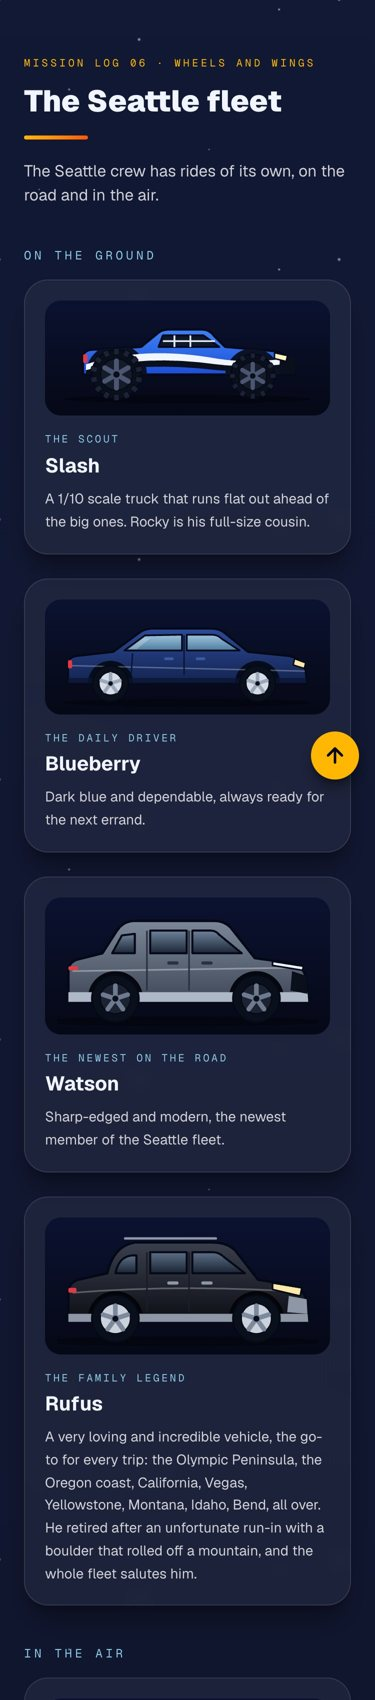
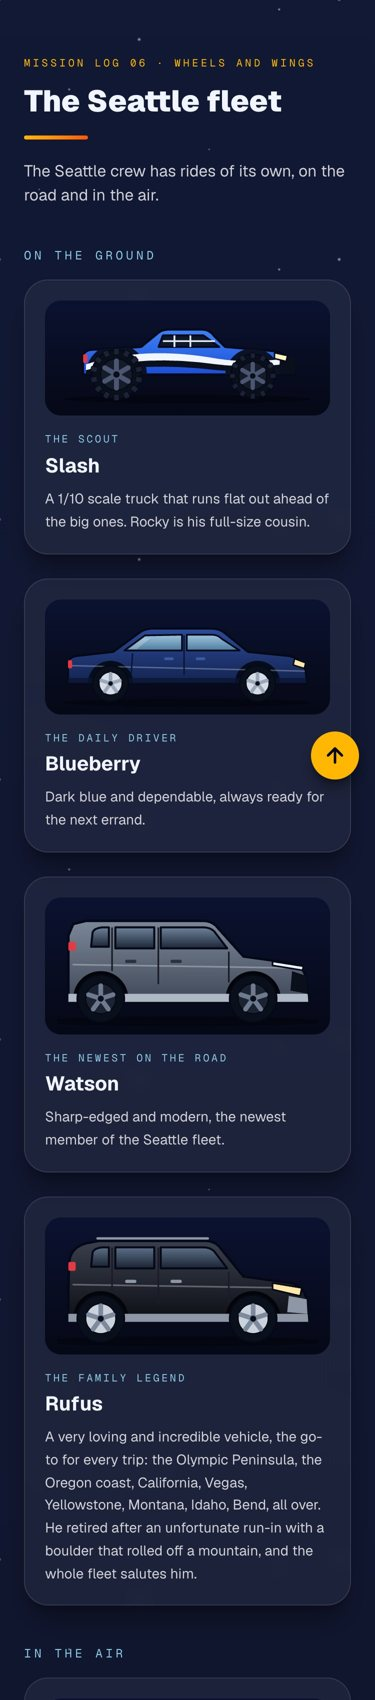
fix: Watson and Rufus get the long, tall back from the photos

Changed region(s): [[0.176, 0.7171, 0.7333, 0.8106], [0.176, 0.53, 0.7627, 0.5924]]

diff --git a/apps/web/src/components/fleet/Watson.tsx b/apps/web/src/components/fleet/Watson.tsx
@@ -1,9 +1,9 @@
 import Wheel from "./Wheel";
 
-// Watson, the 2025 Hyundai Tucson: a sharp-edged compact SUV in dark metallic gray, with a flat
-// roof, a tall tail, and a light bar across the front. An original drawing, no badges or plates.
+// Watson, the 2025 Hyundai Tucson: a sharp-edged compact SUV in dark metallic gray with a light bar across the front. An original drawing, no badges or plates. The back runs long and tall like the real one,
+// the roof carries almost to the tail, and the two doors sit mid-body with a small fixed rear pane.
 const BODY =
-  "M 70,150 L 70,112 Q 70,102 80,98 L 112,90 L 130,62 Q 138,50 152,50 L 250,50 Q 262,50 270,58 L 300,96 L 344,102 Q 362,106 364,124 L 366,150 Z";
+  "M 70,150 L 70,112 L 70,68 L 76,54 L 92,50 L 236,50 Q 246,50 252,56 L 286,94 L 344,102 Q 362,106 364,124 L 366,150 Z";
 
 export default function Watson() {
   return (
@@ -25,27 +25,23 @@ export default function Watson() {
       <g className="fleet-body">
         <path d={BODY} fill="url(#watson-paint)" stroke="#050816" strokeWidth="3" strokeLinejoin="round" />
         <g clipPath="url(#watson-clip)">
-          <circle cx="128" cy="146" r="34" fill="#05080f" />
-          <circle cx="302" cy="146" r="34" fill="#05080f" />
-          {/* silver lower trim */}
-          <rect x="66" y="138" width="304" height="14" fill="#aeb8c6" />
+          <circle cx="110" cy="146" r="34" fill="#030509" />
+          <circle cx="298" cy="146" r="34" fill="#030509" />
+          <rect x="66" y="140" width="304" height="12" fill="#aeb8c6" />
         </g>
-        {/* tinted glass: a small fixed rear quarter pane, the mid door, the front door, no rear door */}
-        <path d="M 124,90 L 136,68 L 152,66 L 152,90 Z" fill="url(#watson-glass)" stroke="#050816" strokeWidth="2.5" strokeLinejoin="round" />
-        <path d="M 171,62 L 216,62 L 216,90 L 171,90 Z" fill="url(#watson-glass)" stroke="#050816" strokeWidth="2.5" strokeLinejoin="round" />
-        <path d="M 223,62 L 246,62 Q 252,62 256,67 L 284,90 L 223,90 Z" fill="url(#watson-glass)" stroke="#050816" strokeWidth="2.5" strokeLinejoin="round" />
-        {/* sharp creases and the door seams */}
-        <path d="M 76,112 L 340,108" stroke="#fff" strokeOpacity="0.35" strokeWidth="2" strokeLinecap="round" />
-        <path d="M 167,62 V136 M 219,62 V136" stroke="#2a3140" strokeWidth="2" />
-        <rect x="192" y="100" width="14" height="4" rx="2" fill="#2a3140" />
-        <rect x="234" y="100" width="14" height="4" rx="2" fill="#2a3140" />
-        {/* the front: a hidden light bar and a headlight, the grille */}
+        <path d="M 98,82 L 100,64 Q 102,59 112,58 L 120,58 L 120,82 Z" fill="url(#watson-glass)" stroke="#050816" strokeWidth="2.5" strokeLinejoin="round" />
+        <path d="M 128,58 L 176,58 L 176,84 L 128,84 Z" fill="url(#watson-glass)" stroke="#050816" strokeWidth="2.5" strokeLinejoin="round" />
+        <path d="M 184,58 L 236,58 Q 245,58 250,63 L 266,84 L 184,84 Z" fill="url(#watson-glass)" stroke="#050816" strokeWidth="2.5" strokeLinejoin="round" />
+        <path d="M 76,104 L 340,108" stroke="#fff" strokeOpacity="0.3" strokeWidth="2" strokeLinecap="round" />
+        <path d="M 124,58 V112 M 181,58 V128 M 268,88 V126" stroke="#1a1d27" strokeWidth="2" />
+        <rect x="140" y="98" width="14" height="4" rx="2" fill="#2a3140" />
+        <rect x="196" y="98" width="14" height="4" rx="2" fill="#2a3140" />
         <path d="M 322,100 L 360,106 L 359,111 L 322,105 Z" fill="#e8f6ff" stroke="#050816" strokeWidth="2" strokeLinejoin="round" />
         <path d="M 346,112 L 364,118 L 365,140 L 344,136 Z" fill="#0a0f1c" />
-        <rect x="70" y="106" width="12" height="5" rx="2" fill="#e63946" />
+        <rect x="70" y="76" width="9" height="11" rx="2" fill="#e63946" />
       </g>
-      <Wheel cx={128} cy={146} r={29} rim="#1c2230" spoke="#6d7a90" spokes={5} />
-      <Wheel cx={302} cy={146} r={29} rim="#1c2230" spoke="#6d7a90" spokes={5} />
+      <Wheel cx={110} cy={146} r={29} rim="#1c2230" spoke="#6d7a90" spokes={5} />
+      <Wheel cx={298} cy={146} r={29} rim="#1c2230" spoke="#6d7a90" spokes={5} />
     </svg>
   );
 }

diff --git a/apps/web/src/components/fleet/Rufus.tsx b/apps/web/src/components/fleet/Rufus.tsx
@@ -1,9 +1,9 @@
 import Wheel from "./Wheel";
 
-// Rufus, the 2016 Hyundai Tucson: black, rounded, and the family's go-to for every kind of trip.
-// An original drawing, no badges or plates.
+// Rufus, the 2016 Hyundai Tucson: black, rounded, and the family's go-to for every kind of trip. An original drawing, no badges or plates. The back runs long and tall like the real one,
+// the roof carries almost to the tail, and the two doors sit mid-body with a small fixed rear pane.
 const BODY =
-  "M 70,150 L 70,114 Q 70,102 82,98 L 118,90 Q 126,56 152,52 L 248,52 Q 266,52 276,62 L 304,98 L 342,104 Q 362,108 364,126 L 366,150 Z";
+  "M 70,150 L 70,112 L 71,76 Q 73,58 92,53 L 108,50 L 238,50 Q 250,50 256,57 L 286,94 L 344,102 Q 362,106 364,124 L 366,150 Z";
 
 export default function Rufus() {
   return (
@@ -25,25 +25,24 @@ export default function Rufus() {
       <g className="fleet-body">
         <path d={BODY} fill="url(#rufus-paint)" stroke="#050816" strokeWidth="3" strokeLinejoin="round" />
         <g clipPath="url(#rufus-clip)">
-          <circle cx="128" cy="146" r="34" fill="#030509" />
-          <circle cx="302" cy="146" r="34" fill="#030509" />
+          <circle cx="110" cy="146" r="34" fill="#030509" />
+          <circle cx="298" cy="146" r="34" fill="#030509" />
           <rect x="66" y="140" width="304" height="12" fill="#8d97a6" />
         </g>
-        <path d="M 128,90 Q 132,70 148,68 L 154,68 L 154,90 Z" fill="url(#rufus-glass)" stroke="#050816" strokeWidth="2.5" strokeLinejoin="round" />
-        <path d="M 171,64 L 216,64 L 216,90 L 171,90 Z" fill="url(#rufus-glass)" stroke="#050816" strokeWidth="2.5" strokeLinejoin="round" />
-        <path d="M 223,64 L 248,64 Q 256,64 262,70 L 288,90 L 223,90 Z" fill="url(#rufus-glass)" stroke="#050816" strokeWidth="2.5" strokeLinejoin="round" />
-        {/* roof rails, a soft shoulder line, the door seams */}
-        <path d="M 140,47 L 252,47" stroke="#8d97a6" strokeWidth="3" strokeLinecap="round" />
-        <path d="M 76,114 Q 200,104 342,112" stroke="#fff" strokeOpacity="0.28" strokeWidth="2" fill="none" strokeLinecap="round" />
-        <path d="M 167,64 V138 M 219,64 V138" stroke="#1a1d27" strokeWidth="2" />
-        <rect x="192" y="100" width="14" height="4" rx="2" fill="#8d97a6" />
-        <rect x="234" y="100" width="14" height="4" rx="2" fill="#8d97a6" />
+        <path d="M 98,82 L 100,64 Q 102,59 112,58 L 120,58 L 120,82 Z" fill="url(#rufus-glass)" stroke="#050816" strokeWidth="2.5" strokeLinejoin="round" />
+        <path d="M 128,58 L 176,58 L 176,84 L 128,84 Z" fill="url(#rufus-glass)" stroke="#050816" strokeWidth="2.5" strokeLinejoin="round" />
+        <path d="M 184,58 L 236,58 Q 245,58 250,63 L 266,84 L 184,84 Z" fill="url(#rufus-glass)" stroke="#050816" strokeWidth="2.5" strokeLinejoin="round" />
+        <path d="M 106,47 L 242,47" stroke="#8d97a6" strokeWidth="3" strokeLinecap="round" />
+        <path d="M 76,104 L 340,108" stroke="#fff" strokeOpacity="0.3" strokeWidth="2" strokeLinecap="round" />
+        <path d="M 124,58 V112 M 181,58 V128 M 268,88 V126" stroke="#1a1d27" strokeWidth="2" />
+        <rect x="140" y="98" width="14" height="4" rx="2" fill="#8d97a6" />
+        <rect x="196" y="98" width="14" height="4" rx="2" fill="#8d97a6" />
         <path d="M 322,102 L 358,108 L 356,118 L 322,110 Z" fill="#ffe9a8" stroke="#050816" strokeWidth="2" strokeLinejoin="round" />
         <path d="M 342,118 L 364,122 L 365,140 L 340,138 Z" fill="#8d97a6" />
-        <rect x="70" y="108" width="10" height="6" rx="2" fill="#e63946" />
+        <rect x="70" y="76" width="9" height="11" rx="2" fill="#e63946" />
       </g>
-      <Wheel cx={128} cy={146} r={29} rim="#cbd2dc" spoke="#7d8a9e" spokes={5} />
-      <Wheel cx={302} cy={146} r={29} rim="#cbd2dc" spoke="#7d8a9e" spokes={5} />
+      <Wheel cx={110} cy={146} r={29} rim="#cbd2dc" spoke="#7d8a9e" spokes={5} />
+      <Wheel cx={298} cy={146} r={29} rim="#cbd2dc" spoke="#7d8a9e" spokes={5} />
     </svg>
   );
 }
